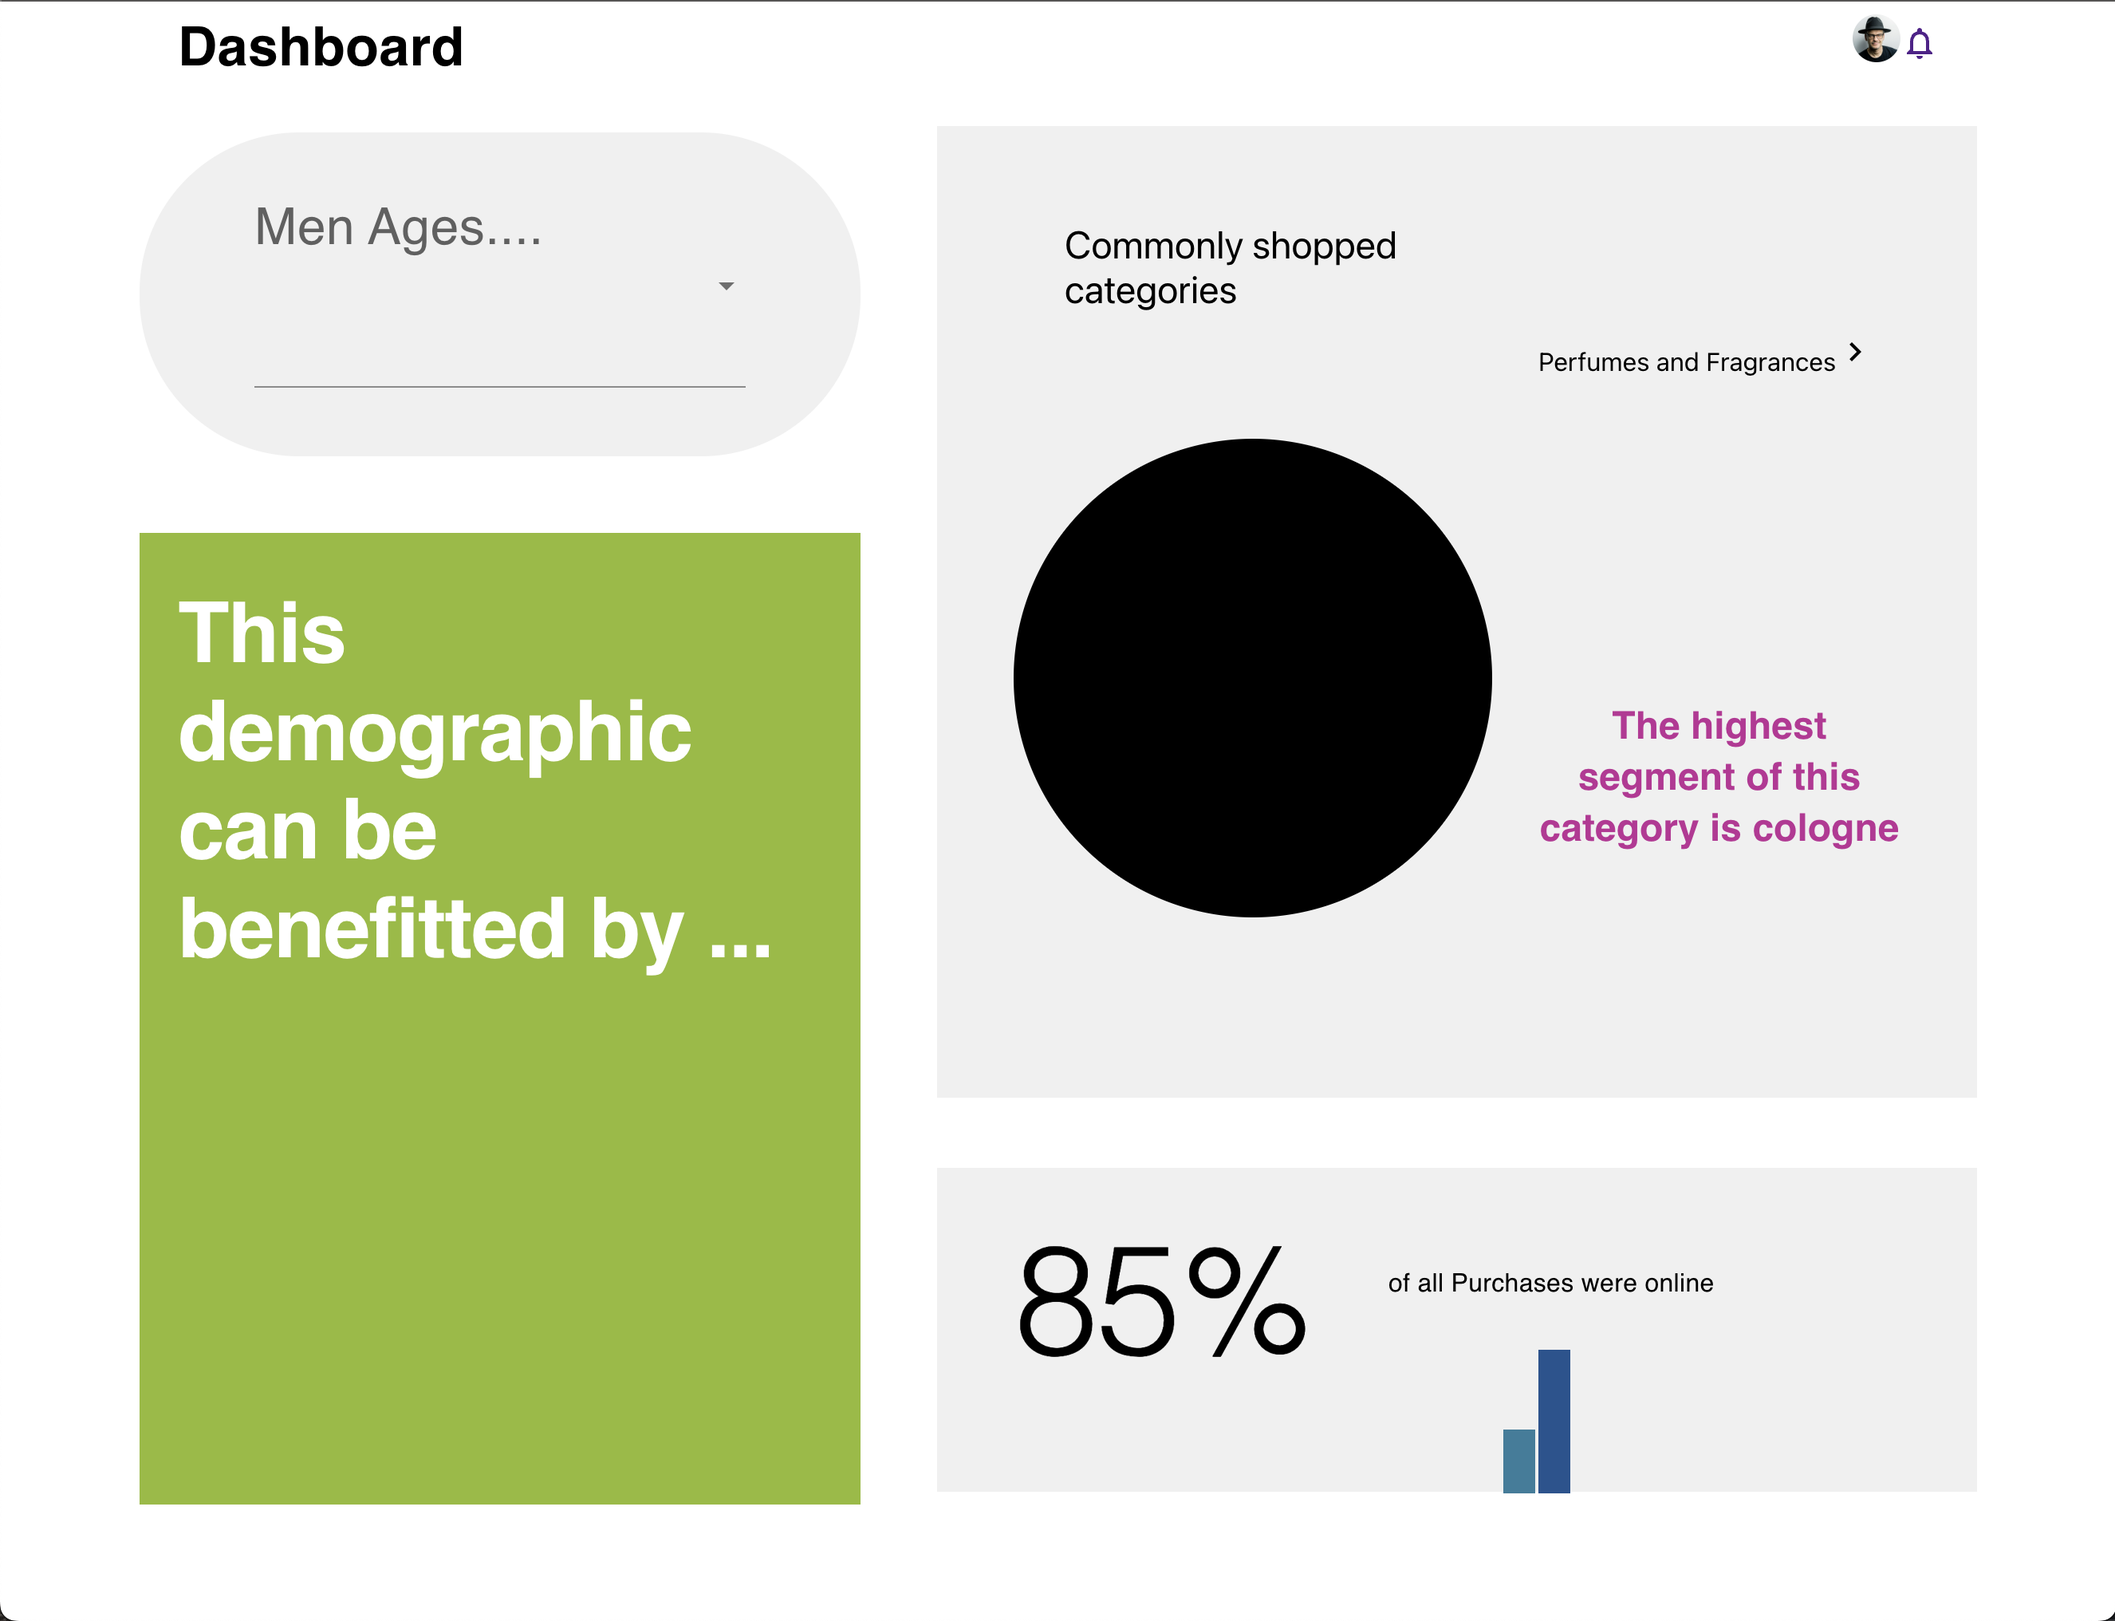
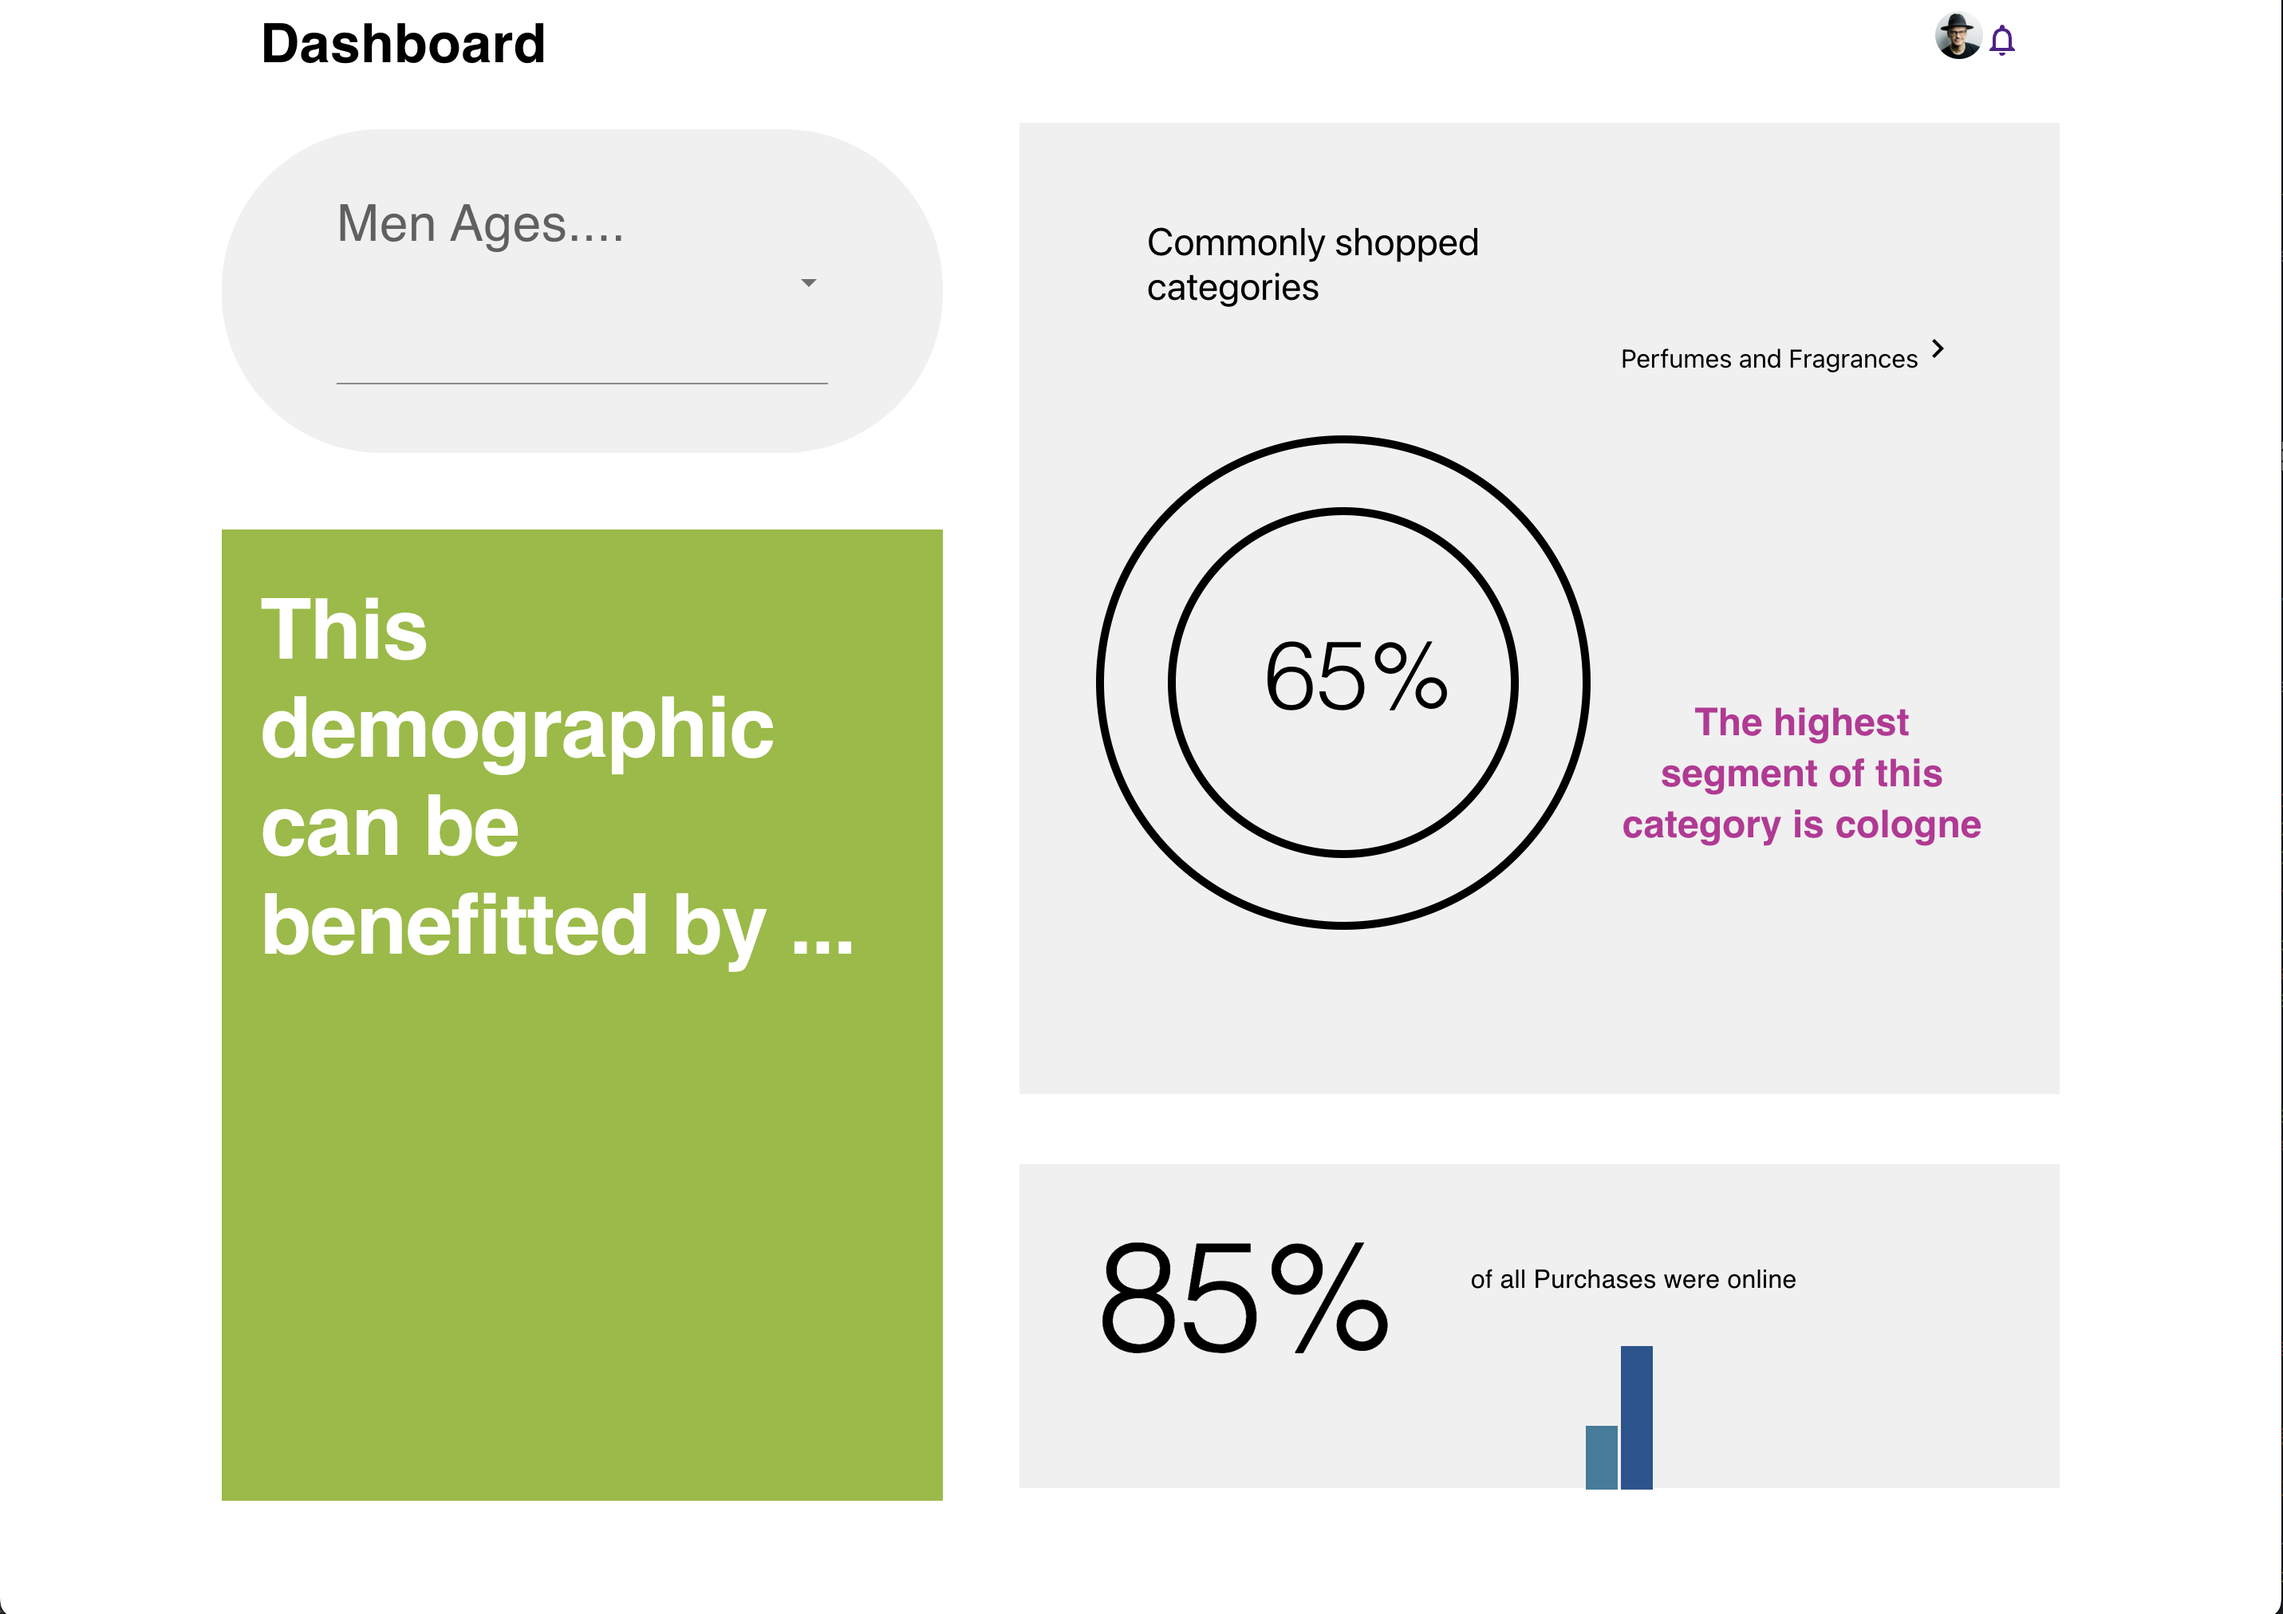
changed screenshot

diff --git a/src/Dashboard.js b/src/Dashboard.js
@@ -87,13 +87,23 @@ export default function BasicGrid() {
 									</Box>
 									<Box
 										sx={{
-											backgroundColor: 'black',
+											backgroundColor: '#f0f0f0',
 											width: '300px',
 											height: '300px',
 											borderRadius: '50%',
 											marginTop: '3rem',
+											border: '5px solid black',
+											outlineOffset: '-50px',
+											outline: '5px solid black',
 										}}
-									></Box>
+									>
+										<Typography
+											variant='h2'
+											style={{ marginTop: '110px', marginLeft: '100px' }}
+										>
+											65%
+										</Typography>{' '}
+									</Box>
 								</Grid>
 								<Grid xs={5} sx={{ marginTop: '10vh' }}>
 									<a
